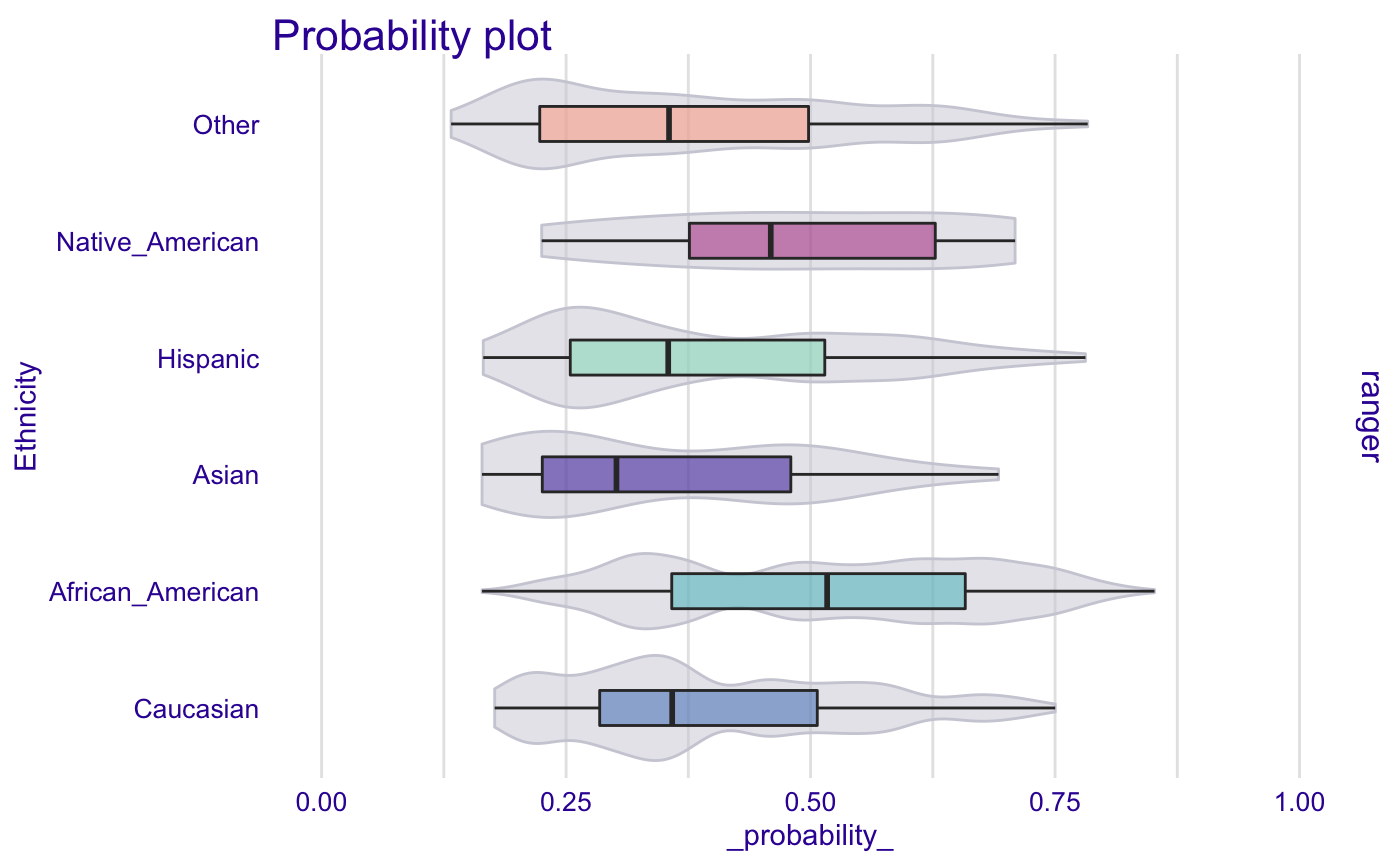
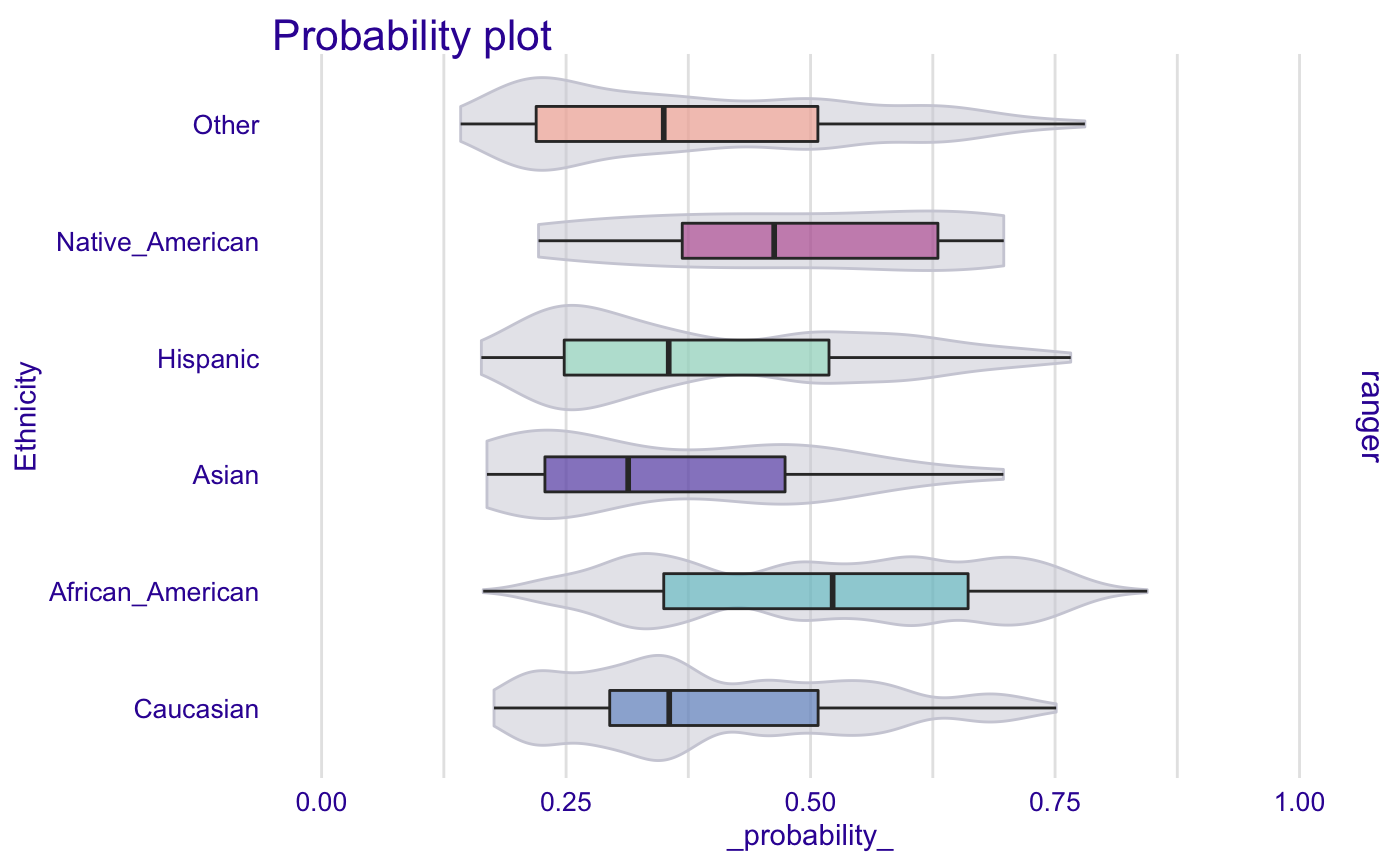
Built site for fairmodels: 0.1.0@6e330af

diff --git a/articles/Basic_tutorial.html b/articles/Basic_tutorial.html
@@ -108,7 +108,8 @@
 <h2 class="hasAnchor">
 <a href="#data" class="anchor"></a>Data</h2>
 <p>We will use modified ProPublica’s compas data to represent our problem.</p>
-<div class="sourceCode" id="cb1"><html><body><pre class="r"><span class="fu"><a href="https://rdrr.io/r/utils/data.html">data</a></span>(<span class="st">"compas"</span>)
+<div class="sourceCode" id="cb1"><html><body><pre class="r"><span class="fu"><a href="https://rdrr.io/r/base/library.html">library</a></span>(<span class="no">fairmodels</span>)
+<span class="fu"><a href="https://rdrr.io/r/utils/data.html">data</a></span>(<span class="st">"compas"</span>)
 
 <span class="fu"><a href="https://rdrr.io/r/utils/head.html">head</a></span>(<span class="no">compas</span>)</pre></body></html></div>
 <pre><code>#&gt;    Two_yr_Recidivism Number_of_Priors Age_Above_FourtyFive Age_Below_TwentyFive
@@ -132,24 +133,27 @@
 <p>As our protected group is Ethnicity, we can plot amount of observations in particular class. Perfect data should have same number of observations in both classes per subgroup. This is just indicator of possible problem.</p>
 <div class="sourceCode" id="cb3"><html><body><pre class="r"><span class="fu"><a href="../reference/demographic_parity.html">demographic_parity</a></span>(<span class="no">compas</span>, <span class="kw">outcome</span> <span class="kw">=</span> <span class="st">"Two_yr_Recidivism"</span>, <span class="kw">group</span>  <span class="kw">=</span> <span class="st">"Ethnicity"</span> )</pre></body></html></div>
 <p><img src="Basic_tutorial_files/figure-html/unnamed-chunk-3-1.png" width="700"></p>
-<p>We train and explain our model with <code>DALEX</code></p>
-<div class="sourceCode" id="cb4"><html><body><pre class="r"><span class="co"># Train</span>
-<span class="no">rf_compas</span> <span class="kw">&lt;-</span> <span class="fu">ranger</span>(<span class="no">Two_yr_Recidivism</span> ~<span class="no">.</span>, <span class="kw">data</span> <span class="kw">=</span> <span class="no">compas</span>, <span class="kw">probability</span> <span class="kw">=</span> <span class="fl">TRUE</span>)
+<p>We train a <code>ranger</code> model and create an explainer with <code>DALEX</code>.</p>
+<div class="sourceCode" id="cb4"><html><body><pre class="r"><span class="fu"><a href="https://rdrr.io/r/base/library.html">library</a></span>(<span class="no">DALEX</span>)
+<span class="fu"><a href="https://rdrr.io/r/base/library.html">library</a></span>(<span class="no">ranger</span>)
+
+<span class="co"># train</span>
+<span class="no">rf_compas</span> <span class="kw">&lt;-</span> <span class="fu"><a href="https://rdrr.io/pkg/ranger/man/ranger.html">ranger</a></span>(<span class="no">Two_yr_Recidivism</span> ~<span class="no">.</span>, <span class="kw">data</span> <span class="kw">=</span> <span class="no">compas</span>, <span class="kw">probability</span> <span class="kw">=</span> <span class="fl">TRUE</span>)
 
 <span class="co"># numeric target values</span>
 <span class="no">y_numeric</span> <span class="kw">&lt;-</span> <span class="fu"><a href="https://rdrr.io/r/base/numeric.html">as.numeric</a></span>(<span class="no">compas</span>$<span class="no">Two_yr_Recidivism</span>)-<span class="fl">1</span>
 
 <span class="co"># explainer</span>
-<span class="no">rf_explainer</span> <span class="kw">&lt;-</span> <span class="kw pkg">DALEX</span><span class="kw ns">::</span><span class="fu"><a href="https://rdrr.io/pkg/DALEX/man/explain.html">explain</a></span>(<span class="no">rf_compas</span>, <span class="kw">data</span> <span class="kw">=</span> <span class="no">compas</span>[,-<span class="fl">1</span>], <span class="kw">y</span> <span class="kw">=</span> <span class="no">y_numeric</span>)</pre></body></html></div>
+<span class="no">rf_explainer</span> <span class="kw">&lt;-</span> <span class="fu"><a href="https://rdrr.io/pkg/DALEX/man/explain.html">explain</a></span>(<span class="no">rf_compas</span>, <span class="kw">data</span> <span class="kw">=</span> <span class="no">compas</span>[,-<span class="fl">1</span>], <span class="kw">y</span> <span class="kw">=</span> <span class="no">y_numeric</span>)</pre></body></html></div>
 <pre><code>#&gt; Preparation of a new explainer is initiated
 #&gt;   -&gt; model label       :  ranger  ( [33m default [39m )
 #&gt;   -&gt; data              :  6172  rows  6  cols 
 #&gt;   -&gt; target variable   :  6172  values 
 #&gt;   -&gt; model_info        :  package ranger , ver. 0.12.1 , task classification ( [33m default [39m ) 
 #&gt;   -&gt; predict function  :  yhat.ranger  will be used ( [33m default [39m )
-#&gt;   -&gt; predicted values  :  numerical, min =  0.1324748 , mean =  0.4553405 , max =  0.8516722  
+#&gt;   -&gt; predicted values  :  numerical, min =  0.1422048 , mean =  0.4552587 , max =  0.8442178  
 #&gt;   -&gt; residual function :  difference between y and yhat ( [33m default [39m )
-#&gt;   -&gt; residuals         :  numerical, min =  -0.7894634 , mean =  -0.0002206245 , max =  0.8369049  
+#&gt;   -&gt; residuals         :  numerical, min =  -0.7764964 , mean =  -0.0001388444 , max =  0.836612  
 #&gt;  [32m A new explainer has been created! [39m</code></pre>
 <p>Than we create <code>fairness_object</code> with <code><a href="../reference/create_fairness_object.html">create_fairness_object()</a></code></p>
 <div class="sourceCode" id="cb6"><html><body><pre class="r"><span class="no">fobject</span> <span class="kw">&lt;-</span> <span class="fu"><a href="../reference/create_fairness_object.html">create_fairness_object</a></span>(<span class="no">rf_explainer</span>,
@@ -167,16 +171,18 @@
 <h2 class="hasAnchor">
 <a href="#fairness-object" class="anchor"></a>Fairness Object</h2>
 <p>To really see what <code>fairness_object</code> is about, we need to make some more models and explainers.</p>
-<div class="sourceCode" id="cb8"><html><body><pre class="r"><span class="fu"><a href="https://rdrr.io/r/base/Random.html">set.seed</a></span>(<span class="fl">123</span>)
+<div class="sourceCode" id="cb8"><html><body><pre class="r"><span class="fu"><a href="https://rdrr.io/r/base/library.html">library</a></span>(<span class="no">gbm</span>)
 
-<span class="no">rf_compas_1</span> <span class="kw">&lt;-</span> <span class="fu">ranger</span>(<span class="no">Two_yr_Recidivism</span> ~<span class="no">Number_of_Priors</span>+<span class="no">Age_Below_TwentyFive</span>, <span class="kw">data</span> <span class="kw">=</span> <span class="no">compas</span>, <span class="kw">probability</span> <span class="kw">=</span> <span class="fl">TRUE</span>)
+<span class="fu"><a href="https://rdrr.io/r/base/Random.html">set.seed</a></span>(<span class="fl">123</span>)
+
+<span class="no">rf_compas_1</span> <span class="kw">&lt;-</span> <span class="fu"><a href="https://rdrr.io/pkg/ranger/man/ranger.html">ranger</a></span>(<span class="no">Two_yr_Recidivism</span> ~<span class="no">Number_of_Priors</span>+<span class="no">Age_Below_TwentyFive</span>, <span class="kw">data</span> <span class="kw">=</span> <span class="no">compas</span>, <span class="kw">probability</span> <span class="kw">=</span> <span class="fl">TRUE</span>)
 <span class="no">lr_compas_1</span> <span class="kw">&lt;-</span> <span class="fu"><a href="https://rdrr.io/r/stats/glm.html">glm</a></span>(<span class="no">Two_yr_Recidivism</span>~<span class="no">.</span>, <span class="kw">data</span><span class="kw">=</span><span class="no">compas</span>, <span class="kw">family</span><span class="kw">=</span><span class="fu"><a href="https://rdrr.io/r/stats/family.html">binomial</a></span>(<span class="kw">link</span><span class="kw">=</span><span class="st">"logit"</span>))
-<span class="no">rf_compas_2</span> <span class="kw">&lt;-</span> <span class="fu">ranger</span>(<span class="no">Two_yr_Recidivism</span> ~<span class="no">.</span>, <span class="kw">data</span> <span class="kw">=</span> <span class="no">compas</span>, <span class="kw">probability</span> <span class="kw">=</span> <span class="fl">TRUE</span>)
-<span class="no">rf_compas_3</span> <span class="kw">&lt;-</span> <span class="fu">ranger</span>(<span class="no">Two_yr_Recidivism</span> ~ <span class="no">Age_Above_FourtyFive</span>+<span class="no">Misdemeanor</span>, <span class="kw">data</span> <span class="kw">=</span> <span class="no">compas</span>, <span class="kw">probability</span> <span class="kw">=</span> <span class="fl">TRUE</span>)
-<span class="no">rf_compas_4</span> <span class="kw">&lt;-</span> <span class="fu">ranger</span>(<span class="no">Two_yr_Recidivism</span> ~<span class="no">.</span>, <span class="kw">data</span> <span class="kw">=</span> <span class="no">compas</span>, <span class="kw">probability</span> <span class="kw">=</span> <span class="fl">TRUE</span>)
+<span class="no">rf_compas_2</span> <span class="kw">&lt;-</span> <span class="fu"><a href="https://rdrr.io/pkg/ranger/man/ranger.html">ranger</a></span>(<span class="no">Two_yr_Recidivism</span> ~<span class="no">.</span>, <span class="kw">data</span> <span class="kw">=</span> <span class="no">compas</span>, <span class="kw">probability</span> <span class="kw">=</span> <span class="fl">TRUE</span>)
+<span class="no">rf_compas_3</span> <span class="kw">&lt;-</span> <span class="fu"><a href="https://rdrr.io/pkg/ranger/man/ranger.html">ranger</a></span>(<span class="no">Two_yr_Recidivism</span> ~ <span class="no">Age_Above_FourtyFive</span>+<span class="no">Misdemeanor</span>, <span class="kw">data</span> <span class="kw">=</span> <span class="no">compas</span>, <span class="kw">probability</span> <span class="kw">=</span> <span class="fl">TRUE</span>)
+<span class="no">rf_compas_4</span> <span class="kw">&lt;-</span> <span class="fu"><a href="https://rdrr.io/pkg/ranger/man/ranger.html">ranger</a></span>(<span class="no">Two_yr_Recidivism</span> ~<span class="no">.</span>, <span class="kw">data</span> <span class="kw">=</span> <span class="no">compas</span>, <span class="kw">probability</span> <span class="kw">=</span> <span class="fl">TRUE</span>)
 <span class="no">df</span> <span class="kw">&lt;-</span> <span class="no">compas</span>
 <span class="no">df</span>$<span class="no">Two_yr_Recidivism</span> <span class="kw">&lt;-</span> <span class="fu"><a href="https://rdrr.io/r/base/numeric.html">as.numeric</a></span>(<span class="no">compas</span>$<span class="no">Two_yr_Recidivism</span>)-<span class="fl">1</span>
-<span class="no">gbm_compas_1</span><span class="kw">&lt;-</span> <span class="fu">gbm</span>(<span class="no">Two_yr_Recidivism</span>~<span class="no">.</span>, <span class="kw">data</span> <span class="kw">=</span> <span class="no">df</span>)
+<span class="no">gbm_compas_1</span><span class="kw">&lt;-</span> <span class="fu"><a href="https://rdrr.io/pkg/gbm/man/gbm.html">gbm</a></span>(<span class="no">Two_yr_Recidivism</span>~<span class="no">.</span>, <span class="kw">data</span> <span class="kw">=</span> <span class="no">df</span>)
 
 <span class="no">explainer_1</span> <span class="kw">&lt;-</span> <span class="kw pkg">DALEX</span><span class="kw ns">::</span><span class="fu"><a href="https://rdrr.io/pkg/DALEX/man/explain.html">explain</a></span>(<span class="no">rf_compas_1</span>,  <span class="kw">data</span> <span class="kw">=</span> <span class="no">compas</span>[,-<span class="fl">1</span>], <span class="kw">y</span> <span class="kw">=</span> <span class="no">y_numeric</span>)
 <span class="no">explainer_2</span> <span class="kw">&lt;-</span> <span class="kw pkg">DALEX</span><span class="kw ns">::</span><span class="fu"><a href="https://rdrr.io/pkg/DALEX/man/explain.html">explain</a></span>(<span class="no">lr_compas_1</span>,  <span class="kw">data</span> <span class="kw">=</span> <span class="no">compas</span>[,-<span class="fl">1</span>], <span class="kw">y</span> <span class="kw">=</span> <span class="no">y_numeric</span>)
